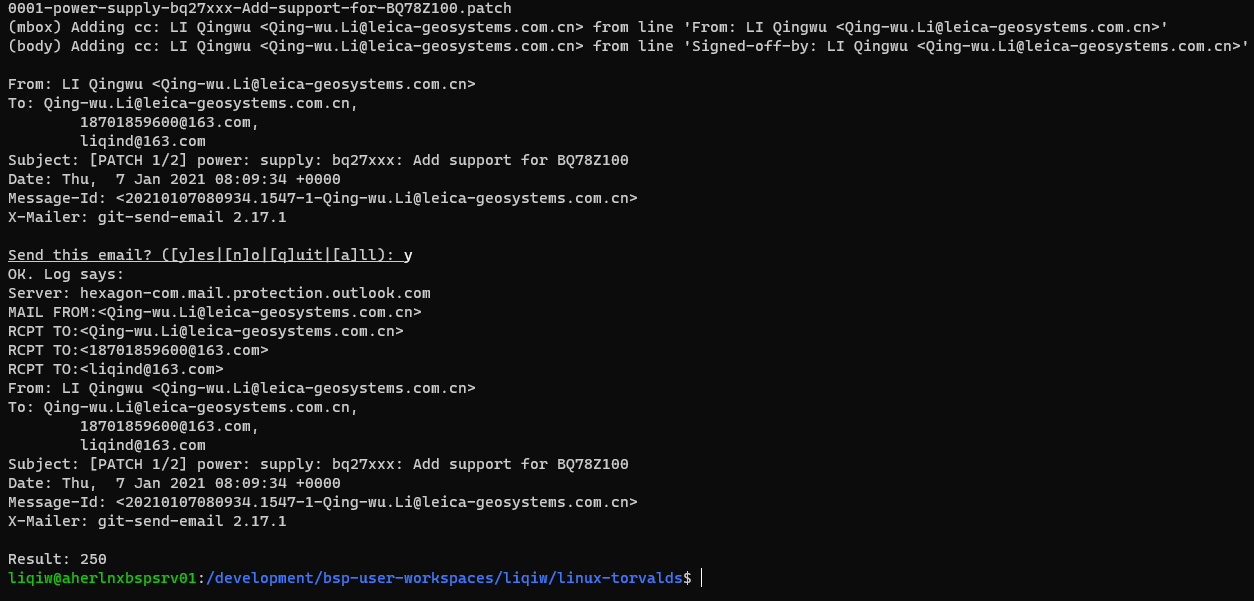
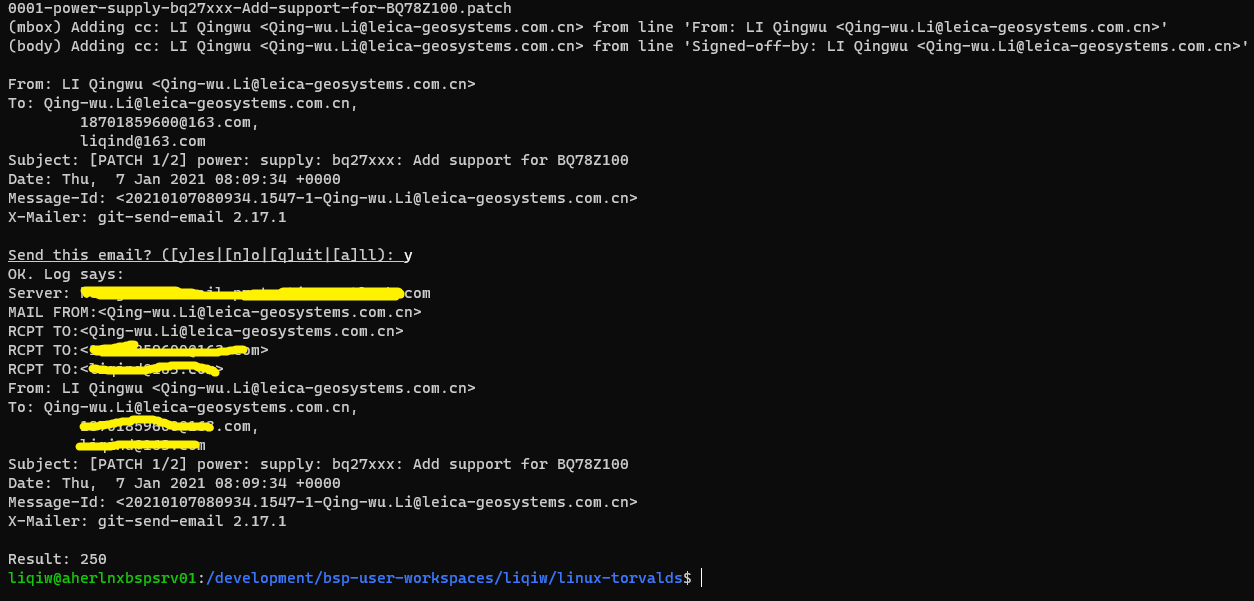
...

Changed region(s): [[0.0622, 0.4493, 0.3421, 0.5092], [0.0622, 0.5691, 0.2177, 0.629], [0.0622, 0.6889, 0.1866, 0.7488]]

diff --git a/提交内核补丁.md b/提交内核补丁.md
@@ -147,9 +147,9 @@ make modules_prepare && make
 -rw-r--r-- 1 liqiw developers 4601 Dec 24 02:57 0001-power-supply-bq27xxx-Add-support-for-BQ78Z100.patch
 -rw-r--r-- 1 liqiw developers 1049 Dec 24 02:57 0002-dt-bindings-power-supply-Add-bindings-for-BQ78Z100.patch
 
-git send-email --confirm=always --to=Qing-wu.Li@leica-geosystems.com.cn --smtp-encryption=tls --smtp-server-port=25 --smtp-server=hexagon-com.mail.protection.outlook.com 0001-power-supply-bq27xxx-Add-support-for-BQ78Z100.patch
+git send-email --confirm=always --to=Qing-wu.Li@leica-geosystems.com.cn --smtp-encryption=tls --smtp-server-port=25 --smtp-server=???.com 0001-power-supply-bq27xxx-Add-support-for-BQ78Z100.patch
 
-git send-email --confirm=always --to=Qing-wu.Li@leica-geosystems.com.cn,18701859600@163.com,liqind@163.com --smtp-encryption=tls --smtp-server-port=25 --smtp-server=hexagon-com.mail.protection.outlook.com 0001-power-supply-bq27xxx-Add-support-for-BQ78Z100.patch
+git send-email --confirm=always --to=Qing-wu.Li@leica-geosystems.com.cn,18701859600@163.com,liqind@163.com --smtp-encryption=tls --smtp-server-port=25 --smtp-server=???.com 0001-power-supply-bq27xxx-Add-support-for-BQ78Z100.patch
 ```
 
 ![image-20210107161203147](../figs/提交内核补丁/image-20210107161203147.png)
